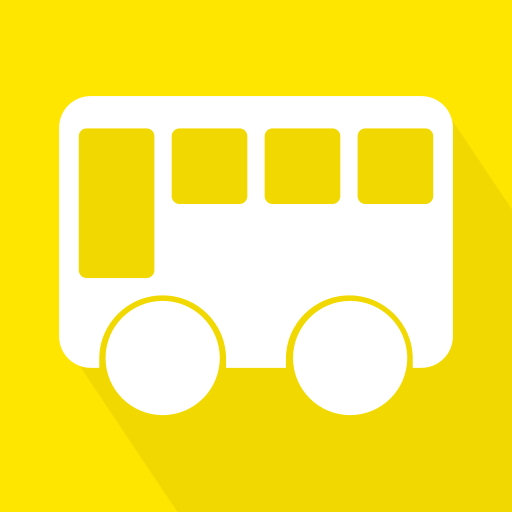
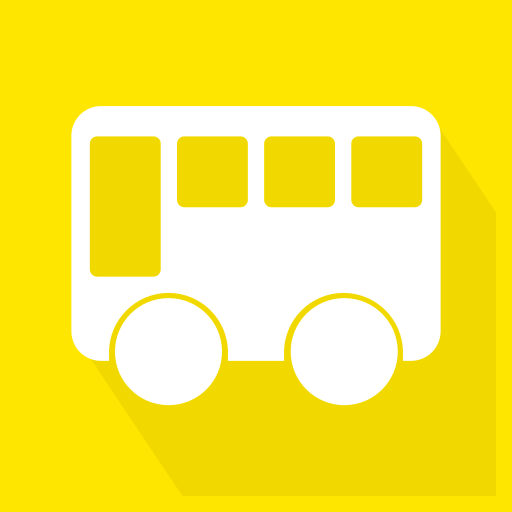
アイコンの大きさ調整

Changed region(s): [[0.0938, 0.1875, 0.9062, 0.8125]]

diff --git a/src/index.tsx b/src/index.tsx
@@ -21,7 +21,7 @@ root.render(
         <link rel="icon" type="image/png" sizes="32x32" href="/favicon-32x32.png" />
         <link rel="icon" type="image/png" sizes="16x16" href="/favicon-16x16.png" />
         <link rel="manifest" href="/site.webmanifest" />
-        <link rel="mask-icon" href="/safari-pinned-tab.svg" color="#ffe600" />
+        <link rel="mask-icon" href="/safari-pinned-tab.svg"/>
         <meta name="msapplication-TileColor" content="#ffe600" />
         <meta name="theme-color" content="#ffe600" />
       </Helmet>
